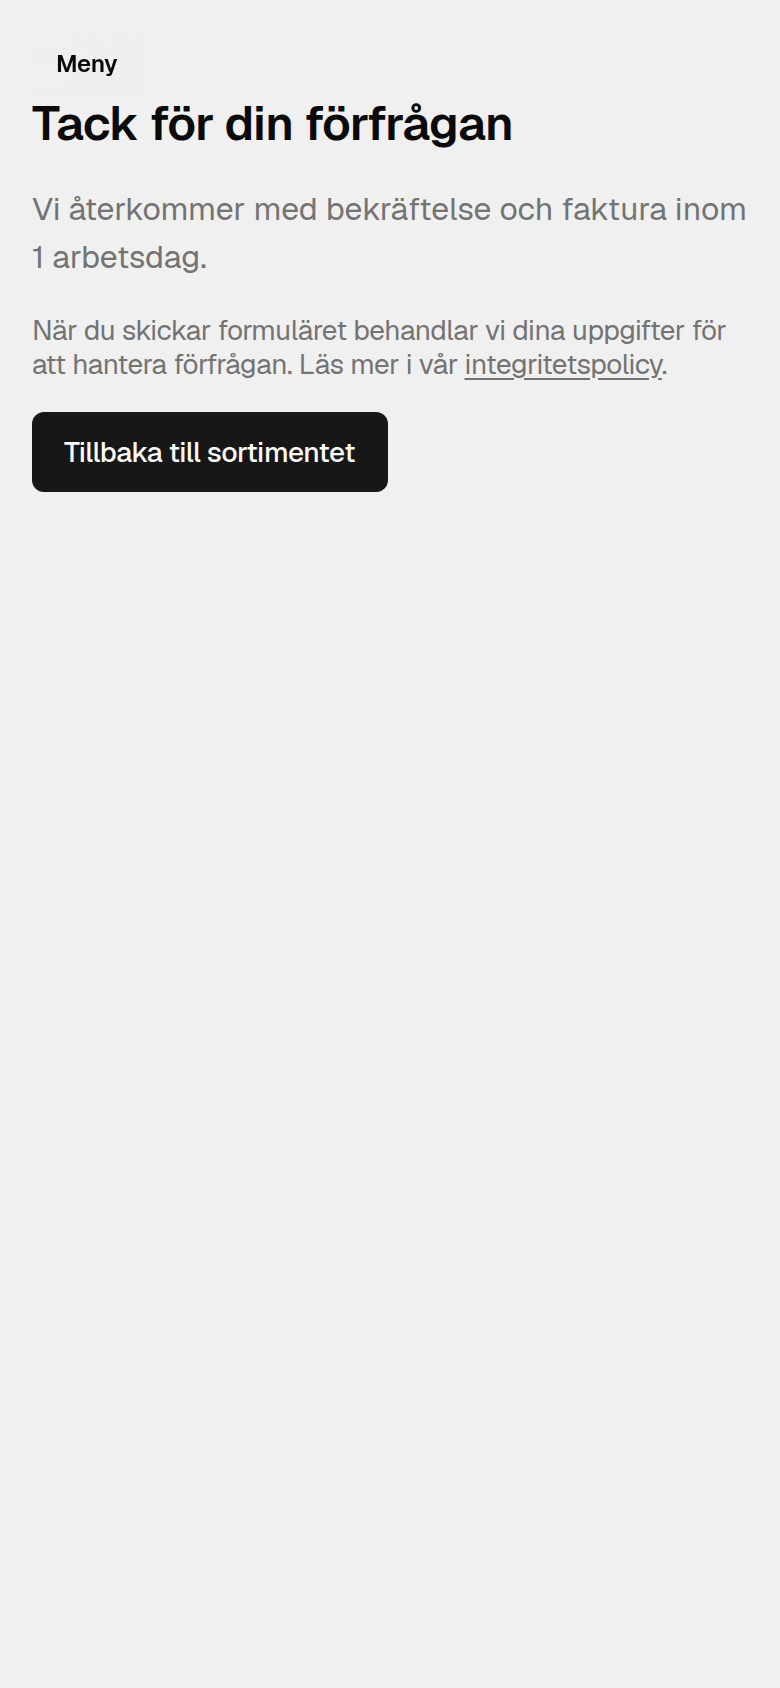
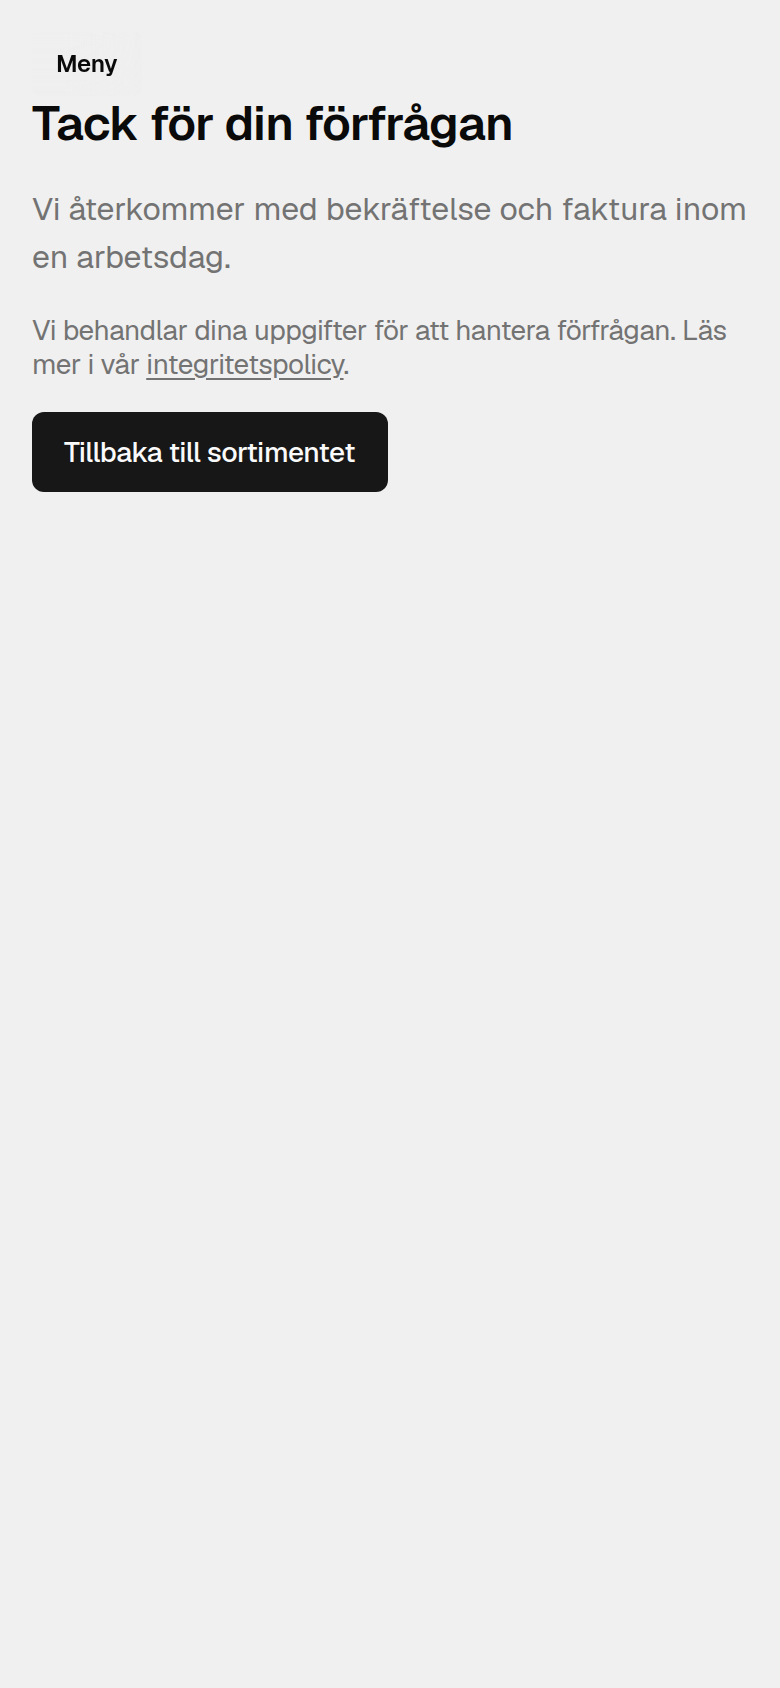
[agent] Dirtywine inquiry: Inès copy (en arbetsdag, Dirty Wine body)
- SV follow-up: inom en arbetsdag (EN unchanged)
- Email body: Hälsningar, Dirty Wine + footer Dirty Wine drivs av…
- From header stays Dirtywine <noreply@pactwines.com> (Axel)
- Receipt privacy: Vi behandlar dina uppgifter… + integritetspolicy link

Changed region(s): [[0.0308, 0.1232, 0.9231, 0.2464], [0.0308, 0.1232, 0.0615, 0.154]]

diff --git a/lib/__tests__/dirtywine-email-from.test.ts b/lib/__tests__/dirtywine-email-from.test.ts
@@ -1,6 +1,8 @@
 import { afterEach, describe, expect, it } from "vitest";
 import {
   DIRTYWINE_BRAND_NAME,
+  DIRTYWINE_EMAIL_BODY_BRAND,
+  DIRTYWINE_INQUIRY_EMAIL_SIGNOFF,
   DIRTYWINE_INQUIRY_FOLLOW_UP,
   getDirtywineInquiryEmailFooterPlain,
   getDirtywineLegalAddress,
@@ -73,8 +75,9 @@ describe("Dirtywine legal footer", () => {
     expect(getDirtywineLegalAddress()).toBeNull();
     const footer = getDirtywineInquiryEmailFooterPlain();
     expect(footer).toBe(
-      `${DIRTYWINE_BRAND_NAME} drivs av Axel Samuelson (enskild firma) · axel@dirtywine.se · Integritetspolicy · Du får det här mejlet eftersom du skickade en förfrågan på dirtywine.se.`,
+      `${DIRTYWINE_EMAIL_BODY_BRAND} drivs av Axel Samuelson (enskild firma) · axel@dirtywine.se · Integritetspolicy · Du får det här mejlet eftersom du skickade en förfrågan på dirtywine.se.`,
     );
+    expect(footer).toContain("Dirty Wine drivs av");
     expect(footer).not.toContain("[ADRESS]");
     expect(footer).not.toContain("Stockholm");
     expect(footer).not.toContain("EURPACT");
@@ -84,7 +87,7 @@ describe("Dirtywine legal footer", () => {
     process.env.DIRTYWINE_LEGAL_ADDRESS = "Testgatan 1";
     const footer = getDirtywineInquiryEmailFooterPlain();
     expect(footer).toContain(
-      `${DIRTYWINE_BRAND_NAME} drivs av Axel Samuelson (enskild firma), Testgatan 1, Stockholm ·`,
+      `${DIRTYWINE_EMAIL_BODY_BRAND} drivs av Axel Samuelson (enskild firma), Testgatan 1, Stockholm ·`,
     );
     expect(footer).not.toContain("[ADRESS]");
   });
@@ -93,19 +96,26 @@ describe("Dirtywine legal footer", () => {
 describe("inquiry email builders", () => {
   it("customer email uses brand From, headline, lines, footer link", () => {
     const built = buildB2bInquiryCustomerEmail({ value: sampleValue });
+    // Axel: From stays Dirtywine on verified pactwines.com — do not change.
     expect(built.from).toBe(`${DIRTYWINE_BRAND_NAME} <noreply@pactwines.com>`);
+    expect(built.from).toBe("Dirtywine <noreply@pactwines.com>");
     expect(built.subject).toBe(
       `Tack, vi har fått din förfrågan – ${DIRTYWINE_BRAND_NAME}`,
     );
     expect(built.text).toContain(DIRTYWINE_INQUIRY_FOLLOW_UP);
     expect(built.text).toContain(
-      "Vi återkommer med bekräftelse och faktura inom 1 arbetsdag.",
+      "Vi återkommer med bekräftelse och faktura inom en arbetsdag.",
     );
     expect(built.html).toContain(
-      "Vi återkommer med bekräftelse och faktura inom 1 arbetsdag.",
+      "Vi återkommer med bekräftelse och faktura inom en arbetsdag.",
     );
+    expect(built.text).toContain(DIRTYWINE_INQUIRY_EMAIL_SIGNOFF);
+    expect(built.html).toContain("Hälsningar, Dirty Wine");
+    expect(built.text).toContain("Dirty Wine drivs av");
+    expect(built.html).toContain("Dirty Wine drivs av");
     expect(built.text).not.toContain("så snart vi kan");
     expect(built.html).not.toContain("så snart vi kan");
+    expect(built.text).not.toContain("inom 1 arbetsdag");
     expect(built.text).toContain("Test AB");
     expect(built.text).toContain("2026-12-01");
     expect(built.text).toContain("Testvin");

diff --git a/lib/b2b/brand.ts b/lib/b2b/brand.ts
@@ -1,9 +1,14 @@
 /**
  * Dirtywine brand / legal constants for B2B inquiry UI + transactional email.
- * Axel: display brand is "Dirtywine" (sender, subject, signature).
+ * Axel: From / subject display name stays "Dirtywine" (Resend).
+ * Inès: customer email body greeting + footer use "Dirty Wine".
  */
 
+/** From-header / subject brand (Axel — do not change without owner decision). */
 export const DIRTYWINE_BRAND_NAME = "Dirtywine" as const;
+
+/** Customer-facing body brand in inquiry confirmation email (greeting + footer). */
+export const DIRTYWINE_EMAIL_BODY_BRAND = "Dirty Wine" as const;
 
 /** Absolute logo URL used in transactional email (header_logo_dirtywine). */
 export const DIRTYWINE_EMAIL_LOGO_URL =
@@ -27,19 +32,22 @@ export function getDirtywineLegalAddress(): string | null {
 
 /**
  * Customer-email footer (plain text).
- * Without address: `{BRAND} drivs av Axel Samuelson (enskild firma) · axel@… · …`
+ * Without address: `Dirty Wine drivs av Axel Samuelson (enskild firma) · axel@… · …`
  * With address: `… (enskild firma), {adress}, Stockholm · axel@… · …`
  */
 export function getDirtywineInquiryEmailFooterPlain(): string {
   const address = getDirtywineLegalAddress();
   const entity = address
-    ? `${DIRTYWINE_BRAND_NAME} drivs av Axel Samuelson (enskild firma), ${address}, Stockholm`
-    : `${DIRTYWINE_BRAND_NAME} drivs av Axel Samuelson (enskild firma)`;
+    ? `${DIRTYWINE_EMAIL_BODY_BRAND} drivs av Axel Samuelson (enskild firma), ${address}, Stockholm`
+    : `${DIRTYWINE_EMAIL_BODY_BRAND} drivs av Axel Samuelson (enskild firma)`;
   return `${entity} · axel@dirtywine.se · ${DIRTYWINE_PRIVACY_POLICY_LABEL} · Du får det här mejlet eftersom du skickade en förfrågan på dirtywine.se.`;
 }
 
 export const DIRTYWINE_INQUIRY_FOLLOW_UP =
-  "Vi återkommer med bekräftelse och faktura inom 1 arbetsdag.";
+  "Vi återkommer med bekräftelse och faktura inom en arbetsdag.";
 
 export const DIRTYWINE_INQUIRY_EMAIL_HEADLINE =
   "Tack, vi har fått din förfrågan";
+
+/** Customer confirmation email sign-off (body only; From stays Dirtywine). */
+export const DIRTYWINE_INQUIRY_EMAIL_SIGNOFF = `Hälsningar, ${DIRTYWINE_EMAIL_BODY_BRAND}`;

diff --git a/docs/design-review/dirtywine-inquiry/customer-confirmation-v2.html b/docs/design-review/dirtywine-inquiry/customer-confirmation-v2.html
@@ -21,7 +21,7 @@
   </table>
   <p style="margin:0 0 4px;font-size:12px;color:#71717a;">Priser exkl. moms</p>
   <p style="margin:0 0 20px;font-size:14px;font-weight:600;">Totalt: 18 flaskor · 3 420 kr exkl. moms</p>
-  <p style="margin:0 0 20px;">Vi återkommer med bekräftelse och faktura inom 1 arbetsdag.</p>
-  <p style="margin:0;">Hälsningar<br/>Dirtywine</p>
-  <p style="margin:24px 0 0;font-size:12px;line-height:1.5;color:#71717a;">Dirtywine drivs av Axel Samuelson (enskild firma), [ADRESS], Stockholm · axel@dirtywine.se · <a href="https://dirtywine.se/integritetspolicy" style="color:#111111;text-decoration:underline;">Integritetspolicy</a> · Du får det här mejlet eftersom du skickade en förfrågan på dirtywine.se.</p>
+  <p style="margin:0 0 20px;">Vi återkommer med bekräftelse och faktura inom en arbetsdag.</p>
+  <p style="margin:0;">Hälsningar, Dirty Wine</p>
+  <p style="margin:24px 0 0;font-size:12px;line-height:1.5;color:#71717a;">Dirty Wine drivs av Axel Samuelson (enskild firma), [ADRESS], Stockholm · axel@dirtywine.se · <a href="https://dirtywine.se/integritetspolicy" style="color:#111111;text-decoration:underline;">Integritetspolicy</a> · Du får det här mejlet eftersom du skickade en förfrågan på dirtywine.se.</p>
 </div></div></body></html>

diff --git a/docs/design-review/dirtywine-inquiry/customer-confirmation-v4.html b/docs/design-review/dirtywine-inquiry/customer-confirmation-v4.html
@@ -32,7 +32,7 @@
         <td style="padding:10px 0 10px 16px;font-size:14px;text-align:right;white-space:nowrap;vertical-align:top;font-weight:600;">3 420 kr exkl. moms</td>
       </tr>
   </table>
-  <p style="margin:0 0 20px;">Vi återkommer med bekräftelse och faktura inom 1 arbetsdag.</p>
-  <p style="margin:0;">Hälsningar<br/>Dirtywine</p>
-  <p style="margin:24px 0 0;font-size:12px;line-height:1.5;color:#71717a;">Dirtywine drivs av Axel Samuelson (enskild firma) · axel@dirtywine.se · <a href="https://dirtywine.se/integritetspolicy" style="color:#111111;text-decoration:underline;">Integritetspolicy</a> · Du får det här mejlet eftersom du skickade en förfrågan på dirtywine.se.</p>
+  <p style="margin:0 0 20px;">Vi återkommer med bekräftelse och faktura inom en arbetsdag.</p>
+  <p style="margin:0;">Hälsningar, Dirty Wine</p>
+  <p style="margin:24px 0 0;font-size:12px;line-height:1.5;color:#71717a;">Dirty Wine drivs av Axel Samuelson (enskild firma) · axel@dirtywine.se · <a href="https://dirtywine.se/integritetspolicy" style="color:#111111;text-decoration:underline;">Integritetspolicy</a> · Du får det här mejlet eftersom du skickade en förfrågan på dirtywine.se.</p>
 </div></div></body></html>

diff --git a/docs/design-review/dirtywine-response-time/customer-confirmation.html b/docs/design-review/dirtywine-response-time/customer-confirmation.html
@@ -24,7 +24,7 @@
         <td style="padding:10px 0 10px 16px;font-size:14px;text-align:right;white-space:nowrap;vertical-align:top;font-weight:600;">1 140 kr exkl. moms</td>
       </tr>
   </table>
-  <p style="margin:0 0 20px;">Vi återkommer med bekräftelse och faktura inom 1 arbetsdag.</p>
-  <p style="margin:0;">Hälsningar<br/>Dirtywine</p>
-  <p style="margin:24px 0 0;font-size:12px;line-height:1.5;color:#71717a;">Dirtywine drivs av Axel Samuelson (enskild firma) · axel@dirtywine.se · <a href="https://dirtywine.se/integritetspolicy" style="color:#111111;text-decoration:underline;">Integritetspolicy</a> · Du får det här mejlet eftersom du skickade en förfrågan på dirtywine.se.</p>
+  <p style="margin:0 0 20px;">Vi återkommer med bekräftelse och faktura inom en arbetsdag.</p>
+  <p style="margin:0;">Hälsningar, Dirty Wine</p>
+  <p style="margin:24px 0 0;font-size:12px;line-height:1.5;color:#71717a;">Dirty Wine drivs av Axel Samuelson (enskild firma) · axel@dirtywine.se · <a href="https://dirtywine.se/integritetspolicy" style="color:#111111;text-decoration:underline;">Integritetspolicy</a> · Du får det här mejlet eftersom du skickade en förfrågan på dirtywine.se.</p>
 </div>

diff --git a/docs/design-review/dirtywine-inquiry/customer-confirmation-v3.html b/docs/design-review/dirtywine-inquiry/customer-confirmation-v3.html
@@ -33,7 +33,7 @@
       </tr>
   </table>
   <p style="margin:0 0 20px;font-size:12px;color:#71717a;">Priser exkl. moms</p>
-  <p style="margin:0 0 20px;">Vi återkommer med bekräftelse och faktura inom 1 arbetsdag.</p>
-  <p style="margin:0;">Hälsningar<br/>Dirtywine</p>
-  <p style="margin:24px 0 0;font-size:12px;line-height:1.5;color:#71717a;">Dirtywine drivs av Axel Samuelson (enskild firma) · axel@dirtywine.se · <a href="https://dirtywine.se/integritetspolicy" style="color:#111111;text-decoration:underline;">Integritetspolicy</a> · Du får det här mejlet eftersom du skickade en förfrågan på dirtywine.se.</p>
+  <p style="margin:0 0 20px;">Vi återkommer med bekräftelse och faktura inom en arbetsdag.</p>
+  <p style="margin:0;">Hälsningar, Dirty Wine</p>
+  <p style="margin:24px 0 0;font-size:12px;line-height:1.5;color:#71717a;">Dirty Wine drivs av Axel Samuelson (enskild firma) · axel@dirtywine.se · <a href="https://dirtywine.se/integritetspolicy" style="color:#111111;text-decoration:underline;">Integritetspolicy</a> · Du får det här mejlet eftersom du skickade en förfrågan på dirtywine.se.</p>
 </div></div></body></html>

diff --git a/lib/b2b/inquiry-emails.ts b/lib/b2b/inquiry-emails.ts
@@ -4,6 +4,7 @@ import {
   DIRTYWINE_BRAND_NAME,
   DIRTYWINE_EMAIL_LOGO_URL,
   DIRTYWINE_INQUIRY_EMAIL_HEADLINE,
+  DIRTYWINE_INQUIRY_EMAIL_SIGNOFF,
   DIRTYWINE_INQUIRY_FOLLOW_UP,
   DIRTYWINE_PRIVACY_POLICY_LABEL,
   DIRTYWINE_PRIVACY_POLICY_URL,
@@ -124,8 +125,7 @@ export function buildB2bInquiryCustomerEmail(opts: {
     "",
     DIRTYWINE_INQUIRY_FOLLOW_UP,
     "",
-    `Hälsningar`,
-    DIRTYWINE_BRAND_NAME,
+    DIRTYWINE_INQUIRY_EMAIL_SIGNOFF,
     "",
     getDirtywineInquiryEmailFooterPlain(),
     DIRTYWINE_PRIVACY_POLICY_URL,
@@ -168,7 +168,7 @@ export function buildB2bInquiryCustomerEmail(opts: {
     ${totalRowHtml}
   </table>
   <p style="margin:0 0 20px;">${escapeHtml(DIRTYWINE_INQUIRY_FOLLOW_UP)}</p>
-  <p style="margin:0;">Hälsningar<br/>${escapeHtml(DIRTYWINE_BRAND_NAME)}</p>
+  <p style="margin:0;">${escapeHtml(DIRTYWINE_INQUIRY_EMAIL_SIGNOFF)}</p>
   ${footerHtml()}
 </div>`.trim();
 

diff --git a/lib/b2b/inquiry-copy.ts b/lib/b2b/inquiry-copy.ts
@@ -39,7 +39,7 @@ export const B2B_INQUIRY_COPY = {
     successTitle: "Tack för din förfrågan",
     successBody: DIRTYWINE_INQUIRY_FOLLOW_UP,
     privacyNote:
-      "När du skickar formuläret behandlar vi dina uppgifter för att hantera förfrågan. Läs mer i vår",
+      "Vi behandlar dina uppgifter för att hantera förfrågan. Läs mer i vår",
     privacyLinkLabel: "integritetspolicy",
     privacyNoteSuffix: ".",
     stockUnavailable:
@@ -60,7 +60,7 @@ export const B2B_INQUIRY_COPY = {
     totalExclVatLabel: "Totalt",
     emailSubjectCustomer: `${DIRTYWINE_INQUIRY_EMAIL_HEADLINE} – ${DIRTYWINE_BRAND_NAME}`,
     emailBodyCustomer: DIRTYWINE_INQUIRY_FOLLOW_UP,
-    emailSignOff: `Hälsningar\n${DIRTYWINE_BRAND_NAME}`,
+    emailSignOff: `Hälsningar, Dirty Wine`,
   },
   en: {
     cartCta: "Send inquiry",

diff --git a/lib/__tests__/b2b-inquiry-validation.test.ts b/lib/__tests__/b2b-inquiry-validation.test.ts
@@ -113,7 +113,10 @@ describe("b2b inquiry copy for legal review", () => {
       "Logga in för att skicka förfrågan. Du kommer tillbaka hit med din lista kvar.",
     );
     expect(texts).toContain(
-      "Vi återkommer med bekräftelse och faktura inom 1 arbetsdag.",
+      "Vi återkommer med bekräftelse och faktura inom en arbetsdag.",
+    );
+    expect(texts).toContain(
+      "Vi behandlar dina uppgifter för att hantera förfrågan. Läs mer i vår integritetspolicy.",
     );
     expect(texts.length).toBeGreaterThan(10);
   });

diff --git a/docs/design-review/dirtywine-response-time/README.md b/docs/design-review/dirtywine-response-time/README.md
@@ -1,19 +1,29 @@
-# Dirtywine inquiry — response time copy
+# Dirtywine inquiry — response time + Inès copy
 
-Customer-facing follow-up wording changed from «så snart vi kan» to **«inom 1 arbetsdag»**.
+## Copy
+
+| Yta | Sträng |
+| --- | --- |
+| Svarstid (SV) | `Vi återkommer med bekräftelse och faktura inom en arbetsdag.` |
+| Svarstid (EN) | `…within 1 business day.` (oförändrad) |
+| Kvitto integritet | `Vi behandlar dina uppgifter för att hantera förfrågan. Läs mer i vår` + länk `integritetspolicy` → `/integritetspolicy` |
+| Mejl hälsning | `Hälsningar, Dirty Wine` |
+| Mejl sidfot | `Dirty Wine drivs av …` |
+| From-header | `Dirtywine <noreply@pactwines.com>` (Axel — oförändrad) |
 
 ## Source of truth
 
-- `lib/b2b/brand.ts` → `DIRTYWINE_INQUIRY_FOLLOW_UP` (SV; receipt + kundmejl HTML/text)
-- `lib/b2b/inquiry-copy.ts` → EN `successBody` / `emailBodyCustomer`
+- `lib/b2b/brand.ts` — `DIRTYWINE_INQUIRY_FOLLOW_UP`, `DIRTYWINE_EMAIL_BODY_BRAND`, footer/sign-off
+- `lib/b2b/inquiry-copy.ts` — privacy note + EN follow-up
+- `lib/b2b/inquiry-emails.ts` — customer HTML/text builders
+- `lib/b2b/email-from.ts` — From header (Dirtywine)
 
 ## Artifacts (Host: dirtywine.se)
 
 | File | What |
 | --- | --- |
-| `receipt-success-390.png` | Kvittosida efter skickad förfrågan, 390 px |
-| `customer-confirmation-email.png` | Kundbekräftelsemejl (HTML från `buildB2bInquiryCustomerEmail`) |
-| `customer-confirmation.html` | Rå HTML från email builder |
-| `customer-confirmation.txt` | Rå text från email builder |
+| `receipt-success-390.png` | Kvittosida 390 px |
+| `customer-confirmation-email.png` | Kundbekräftelsemejl |
+| `customer-confirmation.html` / `.txt` | Rå output från email builder |
 
 Capture: `NEXT_PUBLIC_DIRTYWINE_CHECKOUT_MODE=inquiry` + Next on `:3000`, then `node scripts/dirtywine-response-time-screenshots.mjs`.

diff --git a/docs/design-review/dirtywine-inquiry/README.md b/docs/design-review/dirtywine-inquiry/README.md
@@ -77,16 +77,16 @@ Notes:
 3. Skicka en förfrågan för vinerna i din varukorg. Vi återkommer med bekräftelse och faktura — ingen betalning sker här.
 … (formulärfält oförändrade)
 18. Tack för din förfrågan
-19. Vi återkommer med bekräftelse och faktura inom 1 arbetsdag.
+19. Vi återkommer med bekräftelse och faktura inom en arbetsdag.
 31. Din förfrågan
 32. Priser exkl. moms (+ totalrad: antal flaskor + summa)
 
 ### Kundmejl
 
 33. Tack, vi har fått din förfrågan – Dirtywine  
-34. Vi återkommer med bekräftelse och faktura inom 1 arbetsdag.  
-35. Footer (juridiskt granskad): `{BRAND} drivs av Axel Samuelson (enskild firma), [ADRESS|DIRTYWINE_LEGAL_ADDRESS], Stockholm · axel@dirtywine.se · Integritetspolicy · Du får det här mejlet eftersom du skickade en förfrågan på dirtywine.se.`  
-36. Hälsningar / Dirtywine  
+34. Vi återkommer med bekräftelse och faktura inom en arbetsdag.  
+35. Footer (juridiskt granskad): `Dirty Wine drivs av Axel Samuelson (enskild firma), [ADRESS|DIRTYWINE_LEGAL_ADDRESS], Stockholm · axel@dirtywine.se · Integritetspolicy · Du får det här mejlet eftersom du skickade en förfrågan på dirtywine.se.`  
+36. Hälsningar, Dirty Wine (From-header oförändrad: Dirtywine <noreply@pactwines.com>)
 
 ### Intern notis
 
